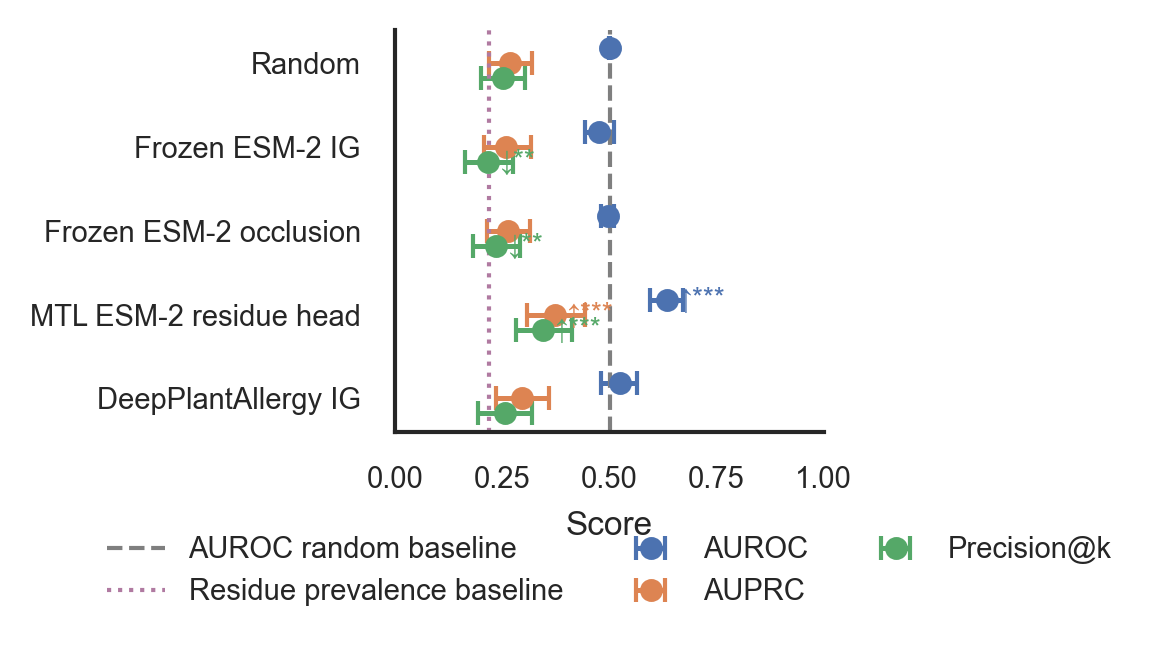
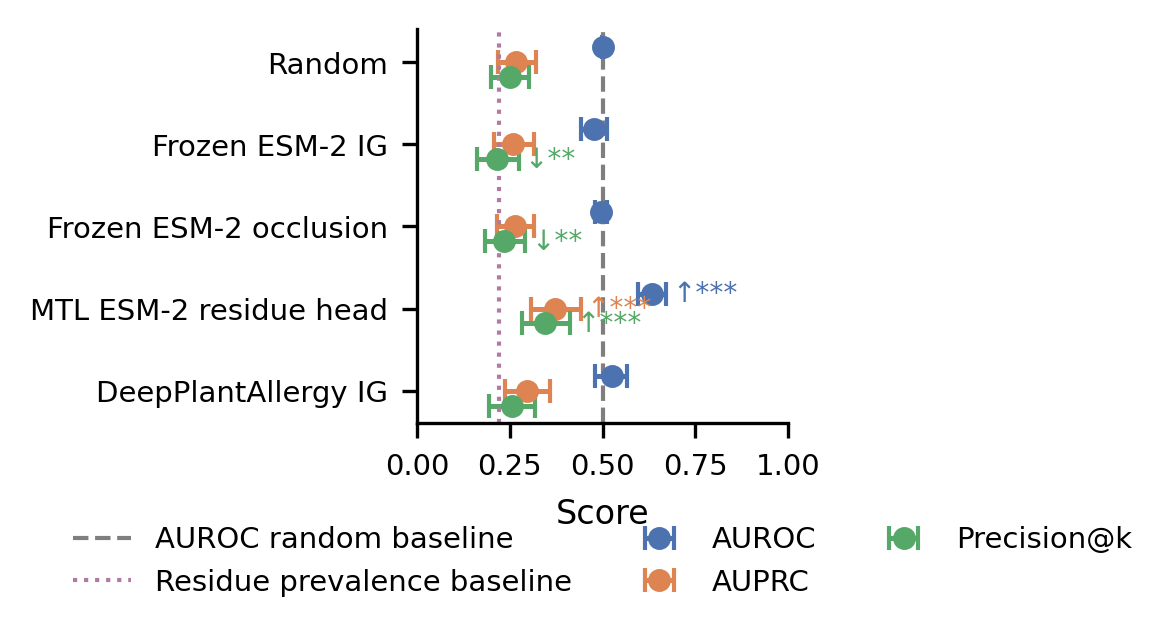
fixed plots

diff --git a/src/xallergen/plotting_paper_figures.py b/src/xallergen/plotting_paper_figures.py
@@ -406,6 +406,9 @@ def plot_main_residue_alignment_subset(
     signal_order = list(summary_df["Signal"])
     y_positions = np.arange(len(signal_order), dtype=float)
     offsets = {"auroc": -0.18, "auprc": 0.0, "precision_at_k": 0.18}
+    x_min, x_max = 0.0, 1.0
+    annotation_pad = 0.015
+    edge_pad = 0.01
 
     fig, ax = plt.subplots(figsize=ONE_COLUMN_FIGSIZE)
     for metric_key in metric_keys:
@@ -427,8 +430,10 @@ def plot_main_residue_alignment_subset(
         marker_col = f"{metric_key}_vs_random_marker"
         diff_col = f"{metric_key}_mean_diff_vs_random"
         if marker_col in summary_df.columns and diff_col in summary_df.columns:
-            for mean_value, y_pos, marker_value, mean_diff in zip(
+            for mean_value, ci_low_value, ci_high_value, y_pos, marker_value, mean_diff in zip(
                 means,
+                ci_low,
+                ci_high,
                 y_positions + offsets[metric_key],
                 summary_df[marker_col],
                 summary_df[diff_col],
@@ -436,13 +441,16 @@ def plot_main_residue_alignment_subset(
                 if pd.isna(marker_value) or str(marker_value) == "ns":
                     continue
                 direction = "↑" if float(mean_diff) > 0 else "↓"
+                right_x = min(float(ci_high_value) + annotation_pad, x_max - edge_pad)
+                left_x = max(float(ci_low_value) - annotation_pad, x_min + edge_pad)
+                place_right = float(ci_high_value) + annotation_pad <= x_max - edge_pad
                 ax.text(
-                    float(mean_value) + 0.028,
+                    right_x if place_right else left_x,
                     float(y_pos),
                     f"{direction}{marker_value}",
                     color=METRIC_COLOR_MAP[metric_key],
                     fontsize=max(FONT_TICK - 0.3, 6.0),
-                    ha="left",
+                    ha="left" if place_right else "right",
                     va="center",
                 )
 
@@ -459,7 +467,7 @@ def plot_main_residue_alignment_subset(
     ax.set_yticks(y_positions)
     ax.set_yticklabels(signal_order, fontsize=FONT_TICK)
     ax.set_xlabel("Score")
-    ax.set_xlim(0.0, 1.0)
+    ax.set_xlim(x_min, x_max)
     ax.invert_yaxis()
     _style_axes(ax)
     _legend_below(ax, ncol=3, y_offset=-0.23)